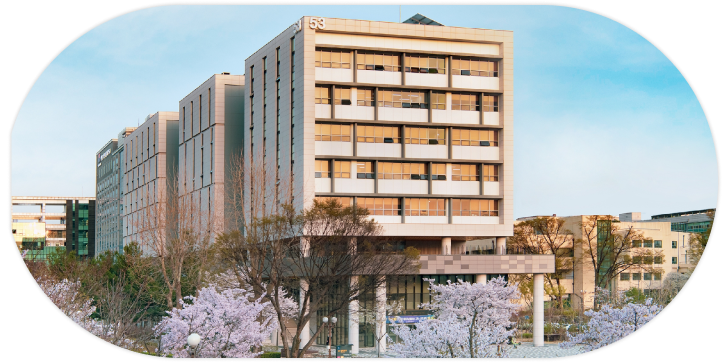
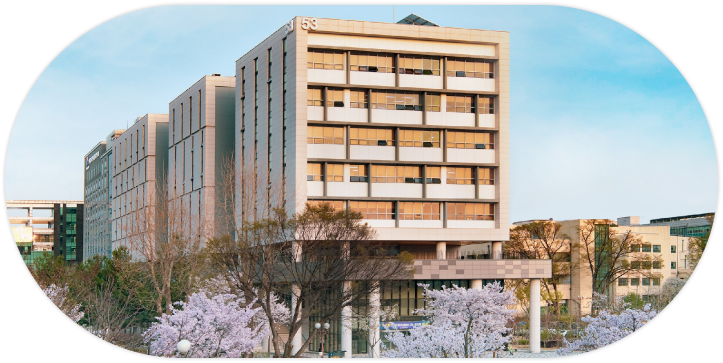
main img 교체

diff --git a/src/pages/main/Main.css b/src/pages/main/Main.css
@@ -12,6 +12,10 @@
     font-style: normal;
 }
 
+.main-first-section {
+    background: radial-gradient(circle, rgba(214,222,255,1) 0%, rgba(241,243,247,1) 79%);
+}
+
 .main-welcome {
     font-size: 76px;
     color: #1A1869;

diff --git a/src/App.css b/src/App.css
@@ -6,7 +6,6 @@
 * {
   margin: 0;
   padding: 0;
-  background-color: #F1F3F7;
 }
 
 .body {
